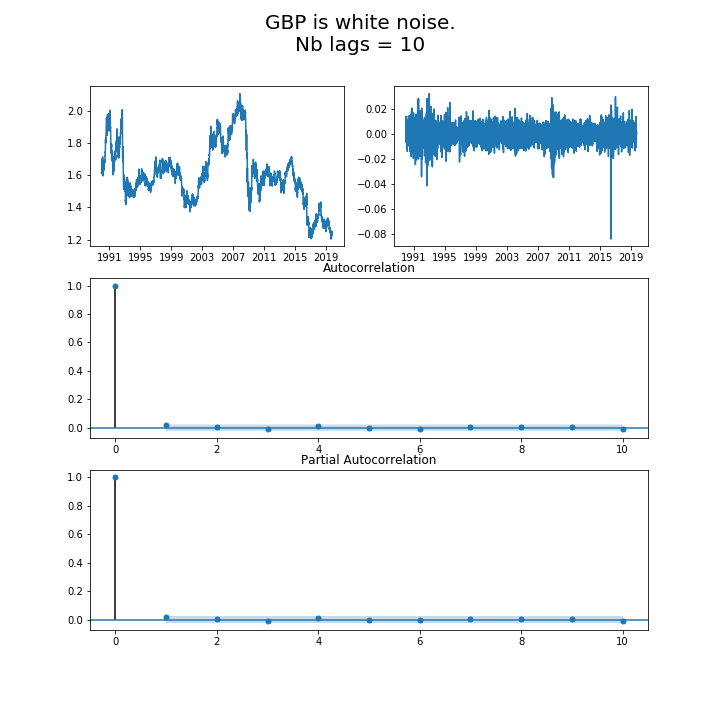
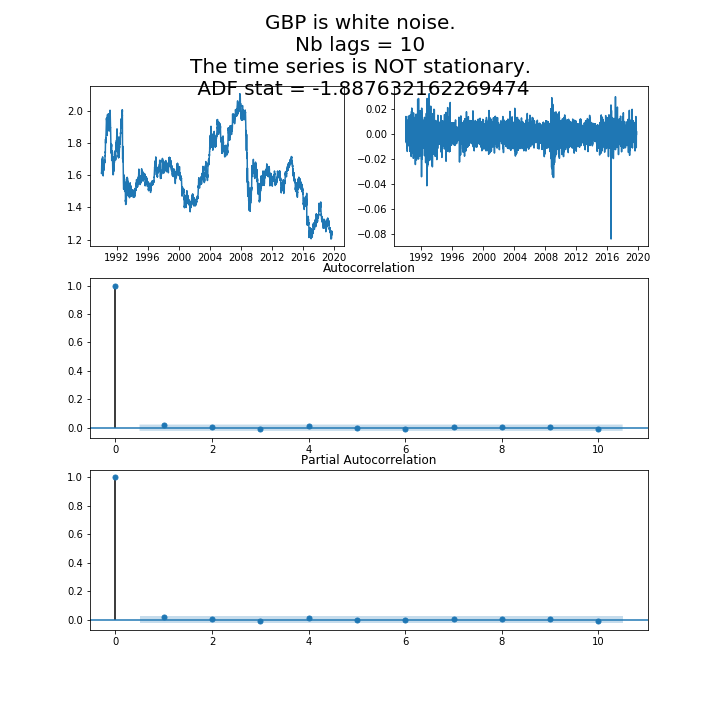
added ARCH

diff --git a/functions.py b/functions.py
@@ -8,6 +8,7 @@ from statsmodels.graphics.tsaplots import plot_acf, plot_pacf
 from STATICS import CHARTS_LOCATION, FILE, LAGS
 from statsmodels.tsa.ar_model import AR
 from statsmodels.tsa.stattools import adfuller
+from arch import arch_model
 
 
 #%% Functions to prepare the data:
@@ -88,7 +89,7 @@ def generate_multicharts(data, lags=LAGS):
     log_returns = to_log_return(data)
     for ticker in tickers:
         filename = CHARTS_LOCATION + ticker + ".png"
-        time_series = data[ticker]
+        time_series = data[ticker].dropna()
         log_rtn = log_returns[ticker]
         log_rtn.dropna(inplace=True)
         # TO DO : implement the stationarity test in the title of the multichart
@@ -98,6 +99,11 @@ def generate_multicharts(data, lags=LAGS):
         else:
             figure_name = ticker.upper() + \
                 " is NOT white noise.\nNb lags = " + str(lags)
+        adf = ADF_test(time_series)
+        if adf[3]:
+            figure_name = figure_name + "\nThe time series is stationary.\n ADF stat = " + str(adf[0])
+        else:
+            figure_name =figure_name + "\nThe time series is NOT stationary.\n ADF stat = " + str(adf[0])
         print("Plotting", ticker)
         figsize = (10, 10)
         fig = plt.figure(figsize=figsize)
@@ -145,7 +151,7 @@ def AR_model(data, test_for_AR):
         print("\nTicker: {} Best order: {}, AIC = {}".format(k, summary[k][0], summary[k][1]))
     return summary
 
-#%% Tests for ARCH effect
+#%% Tests for ARCH effect (serial autocorrelation of the volatility) in the log-returns
 def is_fit_for_ARCH(data):
     tickers = get_tickers(data)
     log_returns = to_log_return(data)
@@ -157,5 +163,22 @@ def is_fit_for_ARCH(data):
     return not_white_noise
 # %%
 
-def ARCH_model():
+def volatility_model(data, ticker, vol, p, q):
+    log_returns = to_log_return(data)
+    # tickers = test_for_ARCH
+    log_rtn = log_returns[ticker].dropna()
+    am = arch_model(log_rtn, vol=vol, p=p, q=q, dist='Normal')
+    res = am.fit()
+    print(res.summary())
+    return res.aic
+
+def arch_fitting(data, ticker):
+    results_table = []
+    for vol in ['arch', 'garch', 'egarch']:
+        for p in range(1, 3):
+            for q in range(3):
+                aic = volatility_model(data, ticker, vol, p, q)
+                results_table.append([ticker, vol, (p, q), aic])
+    print(results_table)
     return
+# %%

diff --git a/main.py b/main.py
@@ -2,6 +2,7 @@
 from STATICS import FILE
 import functions as f
 
+
 # Load/prepare data
 data = f.load_data(FILE)
 # graph multicharts and save to folder
@@ -11,6 +12,16 @@ test_for_AR = f.is_fit_for_AR(data)
 print("The following tickers are not white noise, and are fit for AR model:", test_for_AR)
 # perform AR Model fitting for relevant tickers
 f.AR_model(data, test_for_AR)
+# find which tickers feature volatility that is relevant for ARCH modelling, 
+# i.e. where there is serial autocorrelation in the volatility of the log-returns
+test_for_ARCH = f.is_fit_for_ARCH(data)
+print("The following tickers are relevant for ARCH modeling:", test_for_ARCH)
+#Perform ARCH fitting for relevant tickers
+for ticker in test_for_ARCH:
+    f.arch_fitting(data, ticker)
+
+
+# %%
 
 
 # %%
